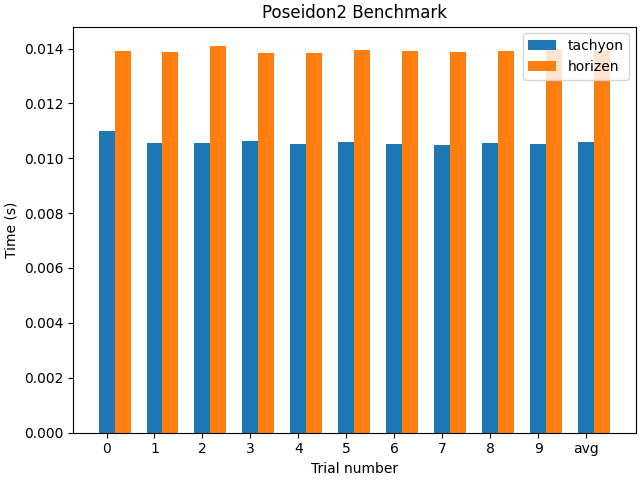
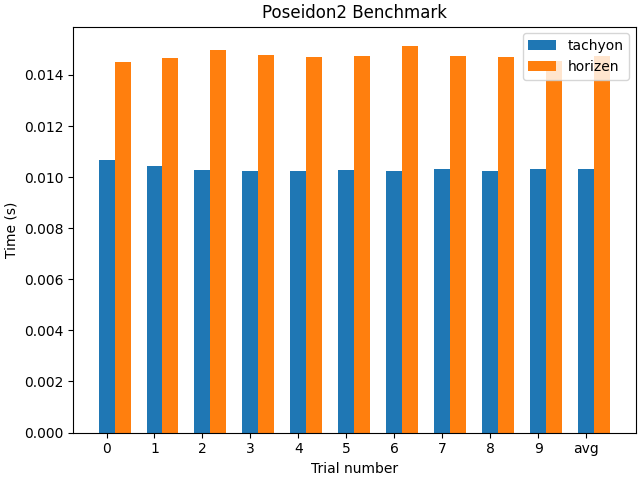
docs(benchmark): update Poseidon2 benchmarks with new flags

diff --git a/benchmark/poseidon2/README.md b/benchmark/poseidon2/README.md
@@ -2,6 +2,7 @@
 
 ```
 Run on 13th Gen Intel(R) Core(TM) i9-13900K (32 X 5500 MHz CPU s)
+Compiler: clang-15
 CPU Caches:
   L1 Data 48 KiB (x16)
   L1 Instruction 32 KiB (x16)
@@ -15,29 +16,30 @@ CPU Caches:
   L2 Unified 4096 KiB (x12)
 ```
 
+Note: Run with `build --@rules_rust//:extra_rustc_flags="-Ctarget-cpu=native"` in your .bazelrc.user
 Note that Poseidon2 runs 10000x per test due to some time results being too small when running a single iteration.
 
 ## BN254
 
 ```shell
-bazel run --config opt --//:has_matplotlib //benchmark/poseidon2:poseidon2_benchmark -- -p bn254_fr --vendor horizen --vendor plonky3 --check_results
+GOMP_SPINCOUNT=0 bazel run --config maxopt --//:has_matplotlib //benchmark/poseidon2:poseidon2_benchmark -- -p bn254_fr --vendor horizen --vendor plonky3 --check_results
 ```
 
 ### On Intel i9-13900K
 
 | Trial Number | Tachyon  | Horizen      | Plonky3  |
 | :----------- | -------- | ------------ | -------- |
-| 0            | 0.064726 | **0.050047** | 0.082464 |
-| 1            | 0.061723 | **0.049997** | 0.082598 |
-| 2            | 0.060917 | **0.050063** | 0.08257  |
-| 3            | 0.06086  | **0.049952** | 0.082493 |
-| 4            | 0.060655 | **0.050173** | 0.082409 |
-| 5            | 0.060768 | **0.050683** | 0.08268  |
-| 6            | 0.060843 | **0.050278** | 0.082675 |
-| 7            | 0.060696 | **0.050062** | 0.082579 |
-| 8            | 0.060688 | **0.05004**  | 0.082592 |
-| 9            | 0.060677 | **0.050128** | 0.083144 |
-| avg          | 0.061255 | **0.050142** | 0.08262  |
+| 0            | 0.069228 | **0.050903** | 0.085679 |
+| 1            | 0.062046 | **0.050892** | 0.085772 |
+| 2            | 0.06053  | **0.050848** | 0.08553  |
+| 3            | 0.060648 | **0.050825** | 0.085643 |
+| 4            | 0.060553 | **0.051126** | 0.08583  |
+| 5            | 0.060592 | **0.05362**  | 0.085475 |
+| 6            | 0.060576 | **0.050936** | 0.085731 |
+| 7            | 0.06051  | **0.05081**  | 0.085613 |
+| 8            | 0.060561 | **0.050889** | 0.086382 |
+| 9            | 0.060558 | **0.050896** | 0.086557 |
+| avg          | 0.06158  | **0.051174** | 0.085821 |
 
 ![image](/benchmark/poseidon2/poseidon2_benchmark_bn254_ubuntu_i9.png)
 
@@ -45,17 +47,17 @@ bazel run --config opt --//:has_matplotlib //benchmark/poseidon2:poseidon2_bench
 
 | Trial Number | Tachyon  | Horizen      | Plonky3  |
 | :----------- | -------- | ------------ | -------- |
-| 0            | 0.072979 | **0.055031** | 0.081624 |
-| 1            | 0.072478 | **0.054731** | 0.081525 |
-| 2            | 0.071973 | **0.055768** | 0.081633 |
-| 3            | 0.071969 | **0.054835** | 0.081638 |
-| 4            | 0.072009 | **0.054884** | 0.081545 |
-| 5            | 0.071933 | **0.055**    | 0.081572 |
-| 6            | 0.07201  | **0.054946** | 0.081521 |
-| 7            | 0.072033 | **0.054883** | 0.081539 |
-| 8            | 0.071967 | **0.054989** | 0.081626 |
-| 9            | 0.071934 | **0.054942** | 0.081556 |
-| avg          | 0.072128 | **0.055**    | 0.081577 |
+| 0            | 0.068967 | **0.058728** | 0.086994 |
+| 1            | 0.068786 | **0.05839**  | 0.086825 |
+| 2            | 0.068658 | **0.058245** | 0.086779 |
+| 3            | 0.068673 | **0.058189** | 0.086693 |
+| 4            | 0.068675 | **0.058303** | 0.08674  |
+| 5            | 0.068693 | **0.058109** | 0.08681  |
+| 6            | 0.068621 | **0.058405** | 0.086816 |
+| 7            | 0.068747 | **0.058247** | 0.086871 |
+| 8            | 0.068637 | **0.058383** | 0.086842 |
+| 9            | 0.068665 | **0.058162** | 0.086846 |
+| avg          | 0.068712 | **0.058316** | 0.086821 |
 
 ![image](/benchmark/poseidon2/poseidon2_benchmark_bn254_mac_m3.png)
 
@@ -66,24 +68,24 @@ Note: Horizen and Plonky3 compute values with a different internal matrix, requi
 ### Horizen
 
 ```shell
-bazel run --config opt --//:has_matplotlib //benchmark/poseidon2:poseidon2_benchmark -- -p baby_bear --vendor horizen --check_results
+GOMP_SPINCOUNT=0 bazel run --config maxopt --//:has_matplotlib //benchmark/poseidon2:poseidon2_benchmark -- -p baby_bear --vendor horizen --check_results
 ```
 
 #### On Intel i9-13900K
 
 | Trial Number | Tachyon      | Horizen  |
 | :----------- | ------------ | -------- |
-| 0            | **0.011549** | 0.034751 |
-| 1            | **0.011439** | 0.034627 |
-| 2            | **0.011475** | 0.034581 |
-| 3            | **0.011543** | 0.035442 |
-| 4            | **0.011455** | 0.03632  |
-| 5            | **0.011372** | 0.034545 |
-| 6            | **0.011381** | 0.034538 |
-| 7            | **0.011142** | 0.03459  |
-| 8            | **0.010845** | 0.034522 |
-| 9            | **0.010819** | 0.034589 |
-| avg          | **0.011302** | 0.03485  |
+| 0            | **0.011424** | 0.034238 |
+| 1            | **0.011975** | 0.034214 |
+| 2            | **0.011505** | 0.034245 |
+| 3            | **0.011304** | 0.03418  |
+| 4            | **0.011313** | 0.034231 |
+| 5            | **0.011354** | 0.034234 |
+| 6            | **0.010743** | 0.034487 |
+| 7            | **0.01071**  | 0.034259 |
+| 8            | **0.010706** | 0.034229 |
+| 9            | **0.010708** | 0.034246 |
+| avg          | **0.011174** | 0.034256 |
 
 ![image](/benchmark/poseidon2/poseidon2_benchmark_baby_bear_horizen_ubuntu_i9.png)
 
@@ -91,41 +93,41 @@ bazel run --config opt --//:has_matplotlib //benchmark/poseidon2:poseidon2_bench
 
 | Trial Number | Tachyon      | Horizen  |
 | :----------- | ------------ | -------- |
-| 0            | **0.010979** | 0.013892 |
-| 1            | **0.010574** | 0.013858 |
-| 2            | **0.010544** | 0.014098 |
-| 3            | **0.010642** | 0.013843 |
-| 4            | **0.010517** | 0.013842 |
-| 5            | **0.010599** | 0.013938 |
-| 6            | **0.010519** | 0.013913 |
-| 7            | **0.010474** | 0.013889 |
-| 8            | **0.010572** | 0.013892 |
-| 9            | **0.010533** | 0.013979 |
-| avg          | **0.010595** | 0.013914 |
+| 0            | **0.010679** | 0.014511 |
+| 1            | **0.010448** | 0.014653 |
+| 2            | **0.010286** | 0.014961 |
+| 3            | **0.01024**  | 0.014769 |
+| 4            | **0.010233** | 0.014717 |
+| 5            | **0.010267** | 0.014761 |
+| 6            | **0.010226** | 0.01514  |
+| 7            | **0.010303** | 0.01475  |
+| 8            | **0.010253** | 0.014693 |
+| 9            | **0.010326** | 0.014533 |
+| avg          | **0.010326** | 0.014748 |
 
 ![image](/benchmark/poseidon2/poseidon2_benchmark_baby_bear_horizen_mac_m3.png)
 
 ### Plonky3
 
 ```shell
-bazel run --config opt --//:has_matplotlib //benchmark/poseidon2:poseidon2_benchmark -- -p baby_bear --vendor plonky3 --check_results
+GOMP_SPINCOUNT=0 bazel run --config maxopt --//:has_matplotlib //benchmark/poseidon2:poseidon2_benchmark -- -p baby_bear --vendor plonky3 --check_results
 ```
 
 #### On Intel i9-13900K
 
 | Trial Number | Tachyon  | Plonky3      |
 | :----------- | -------- | ------------ |
-| 0            | 0.009848 | **0.006655** |
-| 1            | 0.00992  | **0.006582** |
-| 2            | 0.009955 | **0.006616** |
-| 3            | 0.009811 | **0.006572** |
-| 4            | 0.009851 | **0.006537** |
-| 5            | 0.009776 | **0.006645** |
-| 6            | 0.009822 | **0.006548** |
-| 7            | 0.009738 | **0.006586** |
-| 8            | 0.009757 | **0.006594** |
-| 9            | 0.009717 | **0.006619** |
-| avg          | 0.009819 | **0.006595** |
+| 0            | 0.00999  | **0.005391** |
+| 1            | 0.009882 | **0.005298** |
+| 2            | 0.009848 | **0.00513**  |
+| 3            | 0.009772 | **0.005157** |
+| 4            | 0.00977  | **0.005072** |
+| 5            | 0.009774 | **0.005032** |
+| 6            | 0.009783 | **0.005062** |
+| 7            | 0.009878 | **0.005077** |
+| 8            | 0.009778 | **0.005014** |
+| 9            | 0.009762 | **0.005016** |
+| avg          | 0.009823 | **0.005124** |
 
 ![image](/benchmark/poseidon2/poseidon2_benchmark_baby_bear_plonky3_ubuntu_i9.png)
 
@@ -133,16 +135,16 @@ bazel run --config opt --//:has_matplotlib //benchmark/poseidon2:poseidon2_bench
 
 | Trial Number | Tachyon  | Plonky3      |
 | :----------- | -------- | ------------ |
-| 0            | 0.009201 | **0.00732**  |
-| 1            | 0.008927 | **0.007346** |
-| 2            | 0.008922 | **0.007309** |
-| 3            | 0.008735 | **0.007324** |
-| 4            | 0.008765 | **0.0076**   |
-| 5            | 0.008715 | **0.007335** |
-| 6            | 0.008704 | **0.007439** |
-| 7            | 0.008664 | **0.007369** |
-| 8            | 0.008679 | **0.007347** |
-| 9            | 0.008657 | **0.007353** |
-| avg          | 0.008796 | **0.007374** |
+| 0            | 0.009116 | **0.007311** |
+| 1            | 0.008967 | **0.007352** |
+| 2            | 0.008805 | **0.007312** |
+| 3            | 0.008748 | **0.007315** |
+| 4            | 0.008742 | **0.007339** |
+| 5            | 0.008741 | **0.007309** |
+| 6            | 0.008774 | **0.00732**  |
+| 7            | 0.00873  | **0.007696** |
+| 8            | 0.008791 | **0.007342** |
+| 9            | 0.008741 | **0.007353** |
+| avg          | 0.008815 | **0.007364** |
 
 ![image](/benchmark/poseidon2/poseidon2_benchmark_baby_bear_plonky3_mac_m3.png)\*\*\*\*
